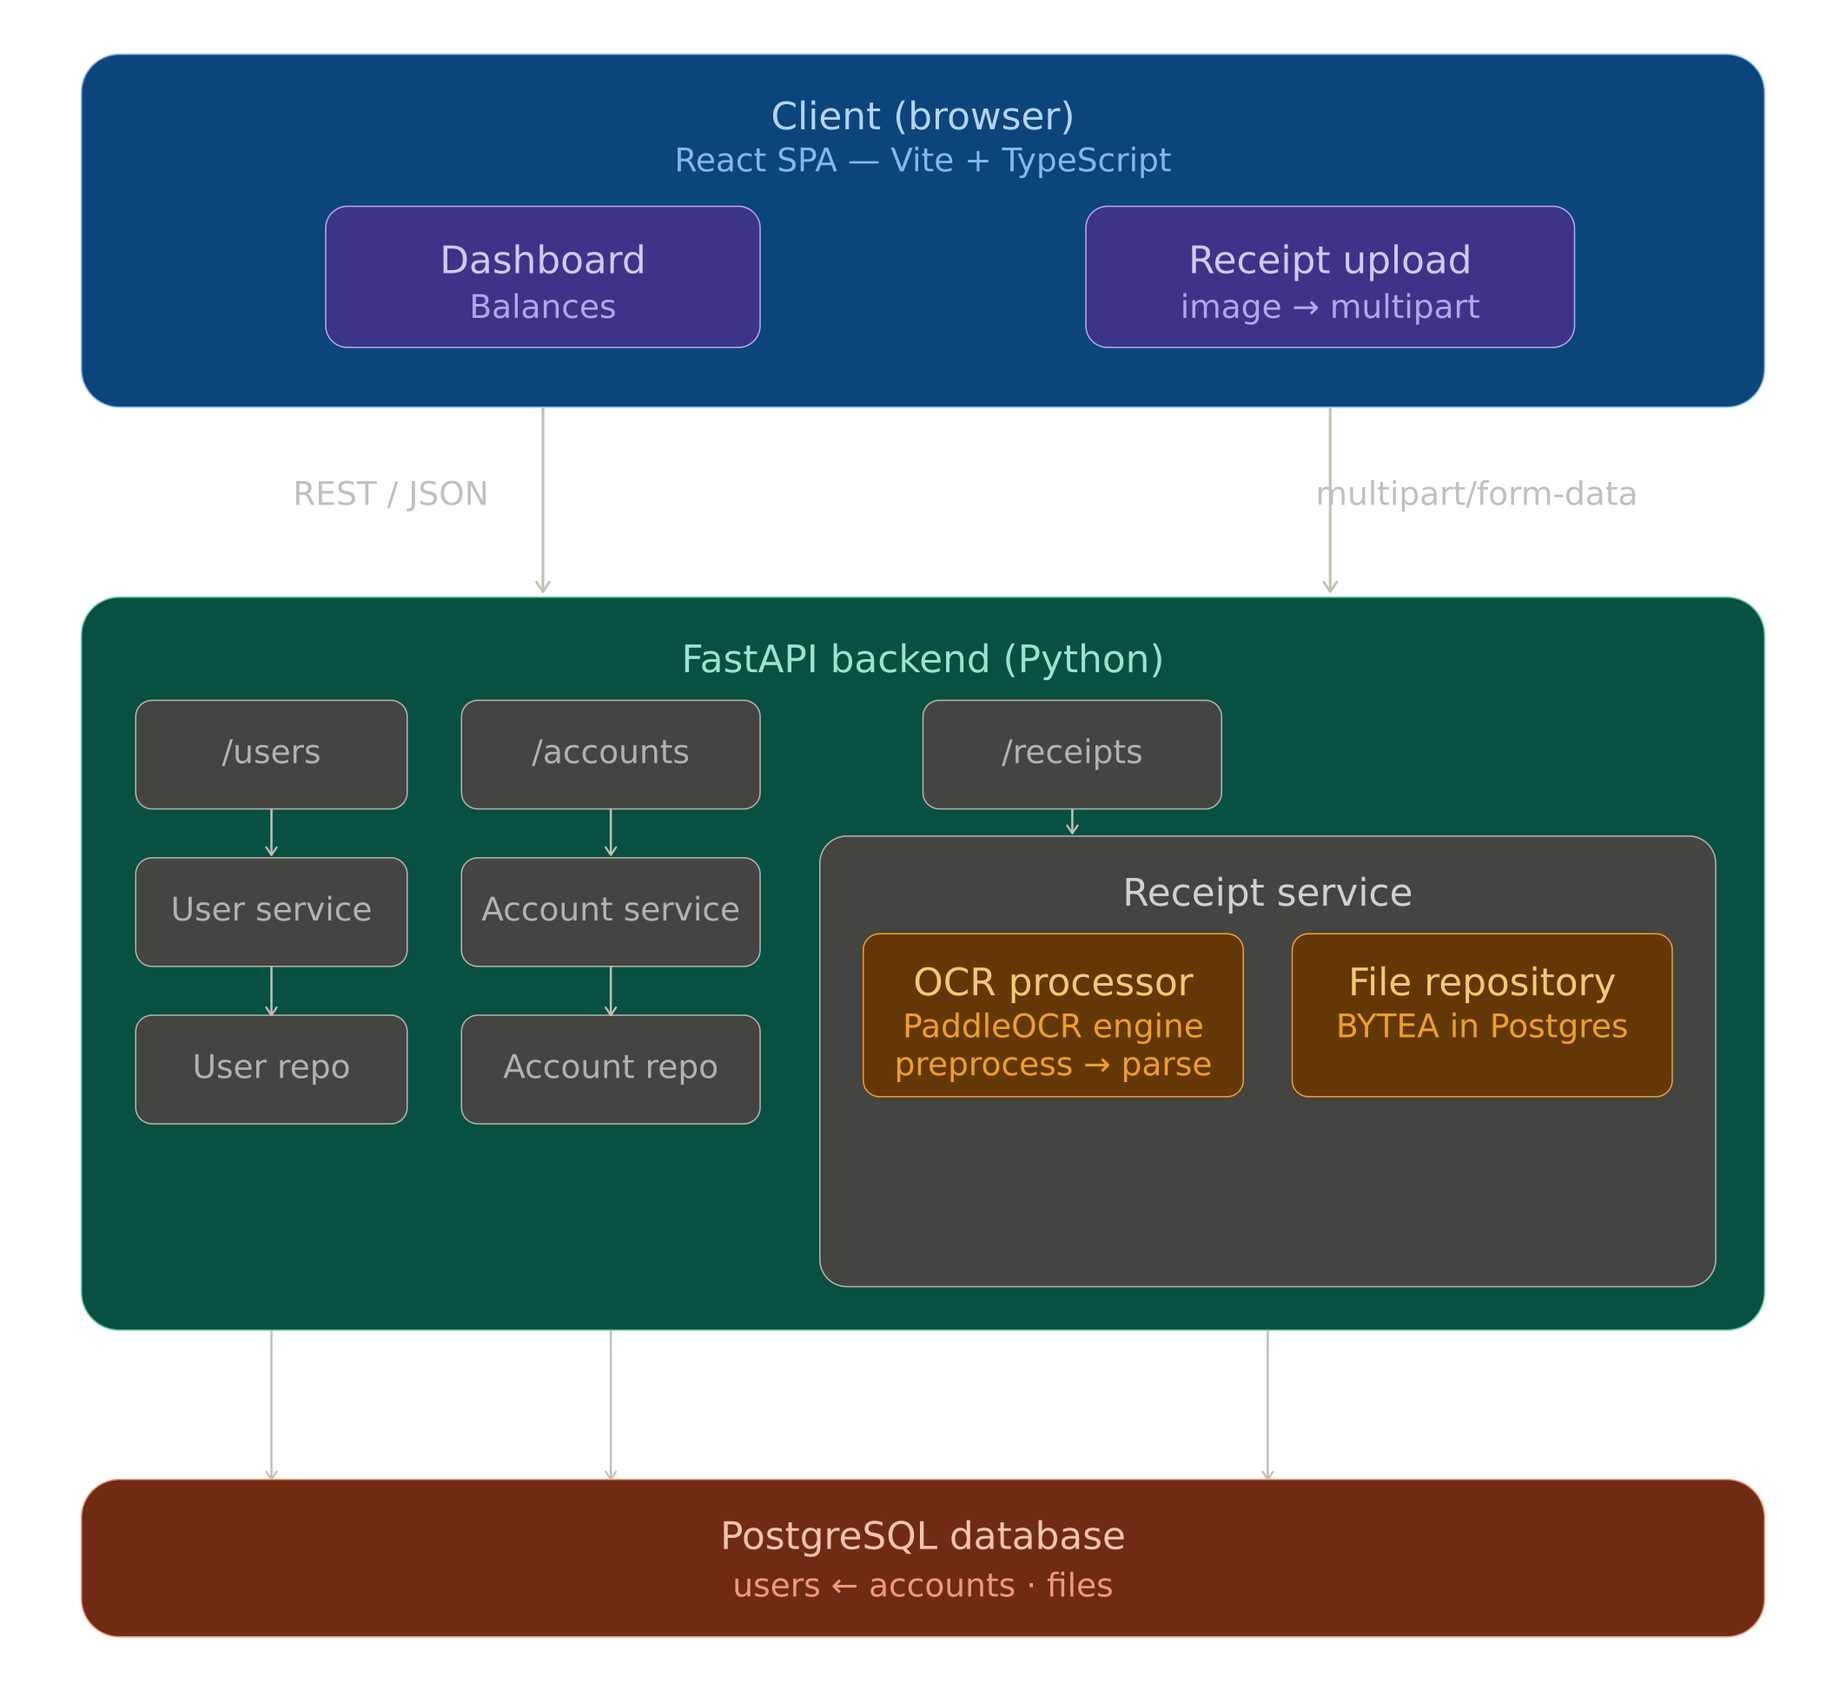
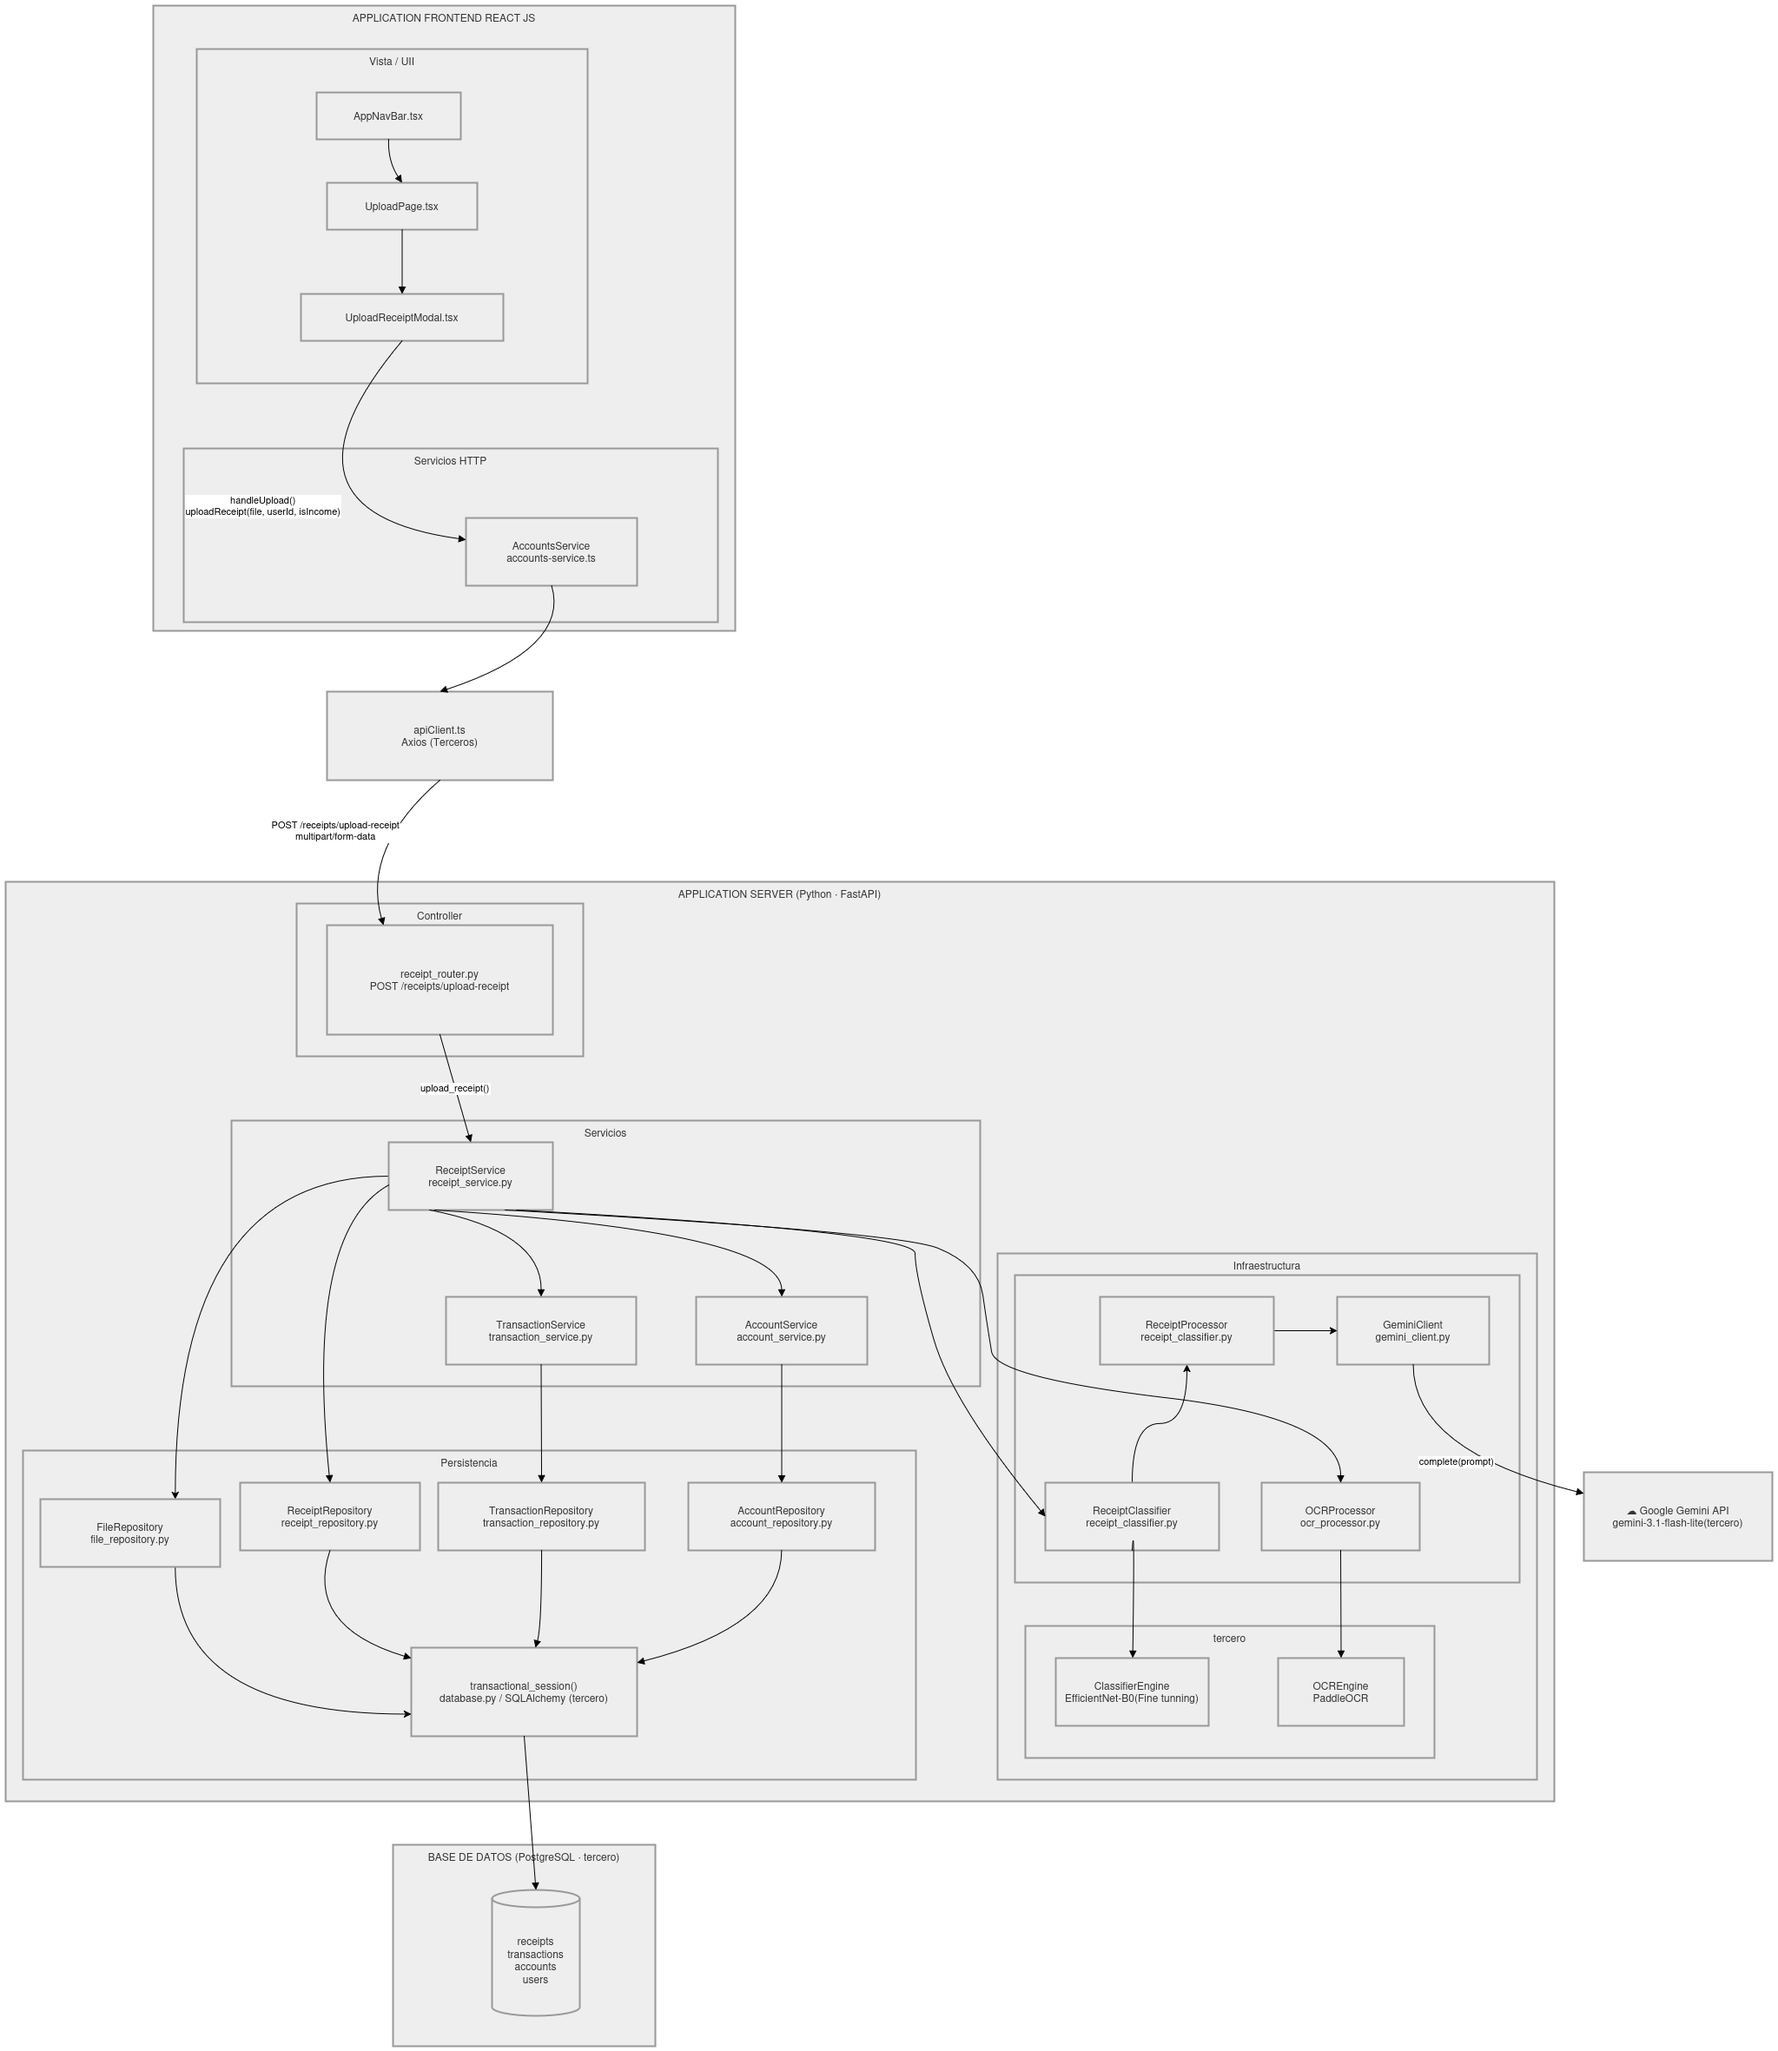
doc: no se pusheo.

diff --git a/README.md b/README.md
@@ -5,7 +5,7 @@
 </p>
 
 **Introduction**  
-TecaTrack is an application designed for managing receipts and financial transactions using OCR (Optical Character Recognition) technology. Currently in a Proof of Concept (PoC) phase focusing on processing receipts from Brunbank, its main objective is to extract structured information from receipt images and automatically map it to user accounts.
+TecaTrack is an application for managing receipts and financial transactions using OCR (Optical Character Recognition) technology. It automatically classifies receipt images by bank, extracts structured data using bank-specific processors or an LLM-based fallback, and maps the results to user accounts. It also supports manual transaction entry and recurring income scheduling.
 
 ---
 
@@ -21,32 +21,22 @@ This repository is the documentation hub for the TecaTrack ecosystem. Source cod
 
 ## Features
 
-- **Receipt Upload**: Upload images of receipts easily.
-- **OCR Processing**: Automatic extraction of key data from receipt images.
-- **Receipt Mapping**: Automatic association of extracted data and updating of funds.
-- **Balance Dashboard**: Visualization of total and individual account balances.
+- **Receipt Upload**: Upload images of receipts and automatically extract structured data via OCR.
+- **Multi-bank OCR**: Bank-specific processors for Brubank and Lemon, with an LLM-based (Gemini) fallback for other institutions.
+- **Receipt Mapping**: Extracted data is associated with the user's accounts and balances are updated accordingly.
+- **Balance Dashboard**: Visualization of total and per-account balances.
+- **Transaction Management**: View recent transactions, filter by date range, and edit existing records.
+- **Manual Transaction Entry**: Log income, expenses, or transfers without uploading a receipt.
+- **Recurring Income**: Schedule periodic income entries that are registered automatically by a background worker.
+- **Account Management**: Create and switch between multiple bank accounts.
 
 ---
 
 ## Premises and Requirements
 
-- **No Authentication**: The PoC uses manual user entry. The active user is determined by an environment variable in the frontend.
-- **OCR Scope**: Designed exclusively for Brunbank receipts.
+- **No Authentication** (Temporarily implemented): The active user is determined by an environment variable in the frontend. A dev-only endpoint allows switching between users during testing.
 - **User Identity**: Users must have a valid Argentine CUIL number.
-
----
-
-## Architecture
-
-The system follows a client-server architecture:
-
-- **Frontend**: Single Page Application (SPA) developed with React and Vite.
-- **Backend**: REST API developed in Python using FastAPI.
-- **Database**: PostgreSQL for relational data persistence.
-
-### Architecture Diagram
-
-![Architecture Diagram](./assets/app_architecture_diagram.png)
+- **Environment Variables**: `GEMINI_API_KEY` is required in the backend for LLM-based receipt extraction (Default processor).
 
 ---
 
@@ -56,9 +46,12 @@ The system follows a client-server architecture:
 | -------------- | ----------------------- | ----------------------------------------------------------------- |
 | Frontend       | React, Vite, TypeScript | Dynamic interface development and strict typing                   |
 | Frontend UI    | Ant Design (AntD)       | Rapid styling and component creation                              |
+| Frontend       | React Router DOM        | Client-side routing across app pages                              |
 | Backend        | Python, FastAPI         | Robust business logic and rapid API creation                      |
 | Database       | PostgreSQL, Alembic     | Relational data persistence and secure migrations                 |
 | Infrastructure | PaddleOCR               | Optical Character Recognition (OCR) to extract data from receipts |
+| Infrastructure | CNN classifier          | Identifies the originating bank from a receipt image              |
+| Infrastructure | Google Gemini (LLM)     | LLM-based receipt data extraction as a fallback processor         |
 
 ---
 
@@ -69,8 +62,9 @@ The system follows a client-server architecture:
 - **User**: Identified by CUIL. Can own multiple accounts and receipts.
 - **Account**: Bank account linked to a user. Stores bank name, balance, and CBU. Tracks transactions.
 - **File**: Binary representation of the uploaded receipt image (`BYTEA` in PostgreSQL).
-- **Receipt**: Processed receipt linking user and file. Tracks OCR status and stored extracted data.
+- **Receipt**: Processed receipt linking user and file. Tracks OCR status, stores extracted OCR text, and carries an `is_income` flag indicating the direction of the operation.
 - **Transaction**: Monetary movement linking sender, receiver, source/destination accounts, and the receipt.
+- **RecurringIncome**: Scheduled income entry that triggers automatic transaction registration on a defined period.
 
 ## Database schema
 
@@ -78,23 +72,96 @@ The system follows a client-server architecture:
 
 ---
 
-## Main System Workflow
+## Upload Receipt Workflow
 
-1. The frontend uses the email configured in its `.env` to query the user.
-2. User uploads an image of a Brunbank receipt.
-3. System persists the image and processes it via the OCR service.
-4. OCR extracts data, maps it to a "Receipt", and updates account balances.
-5. User views updated balances on the dashboard.
+1. The frontend uses the email configured in its `.env` to identify the active user.
+2. User uploads a receipt image.
+3. The CNN classifier identifies the originating bank.
+4. The matching bank-specific OCR processor (Brubank, Lemon, or the LLM-based Default) extracts structured data.
+5. The system persists the receipt and updates the affected account balances.
+
+### Architecture Diagram
+
+![Architecture Diagram](./assets/app_architecture_diagram.png)
+
+### Responsabilities:
+
+- AppNavBar.tsx
+  Top-level navigation component that renders the tab bar and routes the user between the main pages of the application (Dashboard, Upload, User).
+
+- UploadPage.tsx
+  Page component that hosts the upload section. Renders the tab layout for receipt upload and recurring income, and conditionally mounts UploadReceiptModal when the user triggers the upload
+  action.
+
+- UploadReceiptModal.tsx
+  Modal component that owns the receipt upload interaction. Holds local state for the selected file and the isIncome flag, calls AccountsService.uploadReceipt() on confirmation, and reports
+  success or error back to the user.
+
+- AccountsService (accounts-service.ts)
+  HTTP service layer for all account-related operations. Builds the multipart/form-data payload and delegates the actual HTTP call to apiClient. Also handles account creation and balance.
+
+- apiClient.ts (Axios — third-party)
+  Centralized Axios instance that is the single HTTP exit point of the frontend. Configured with the base URL and a response interceptor that maps backend error codes to typed ApiError objects with i18n translation.
+
+- receipt_router.py — POST /receipts/upload-receipt
+  FastAPI router that receives the incoming HTTP request with the file, user_id, and is_income flag. Resolves service dependencies via injection and delegates the entire use case to ReceiptService.
+
+- ReceiptService (receipt_service.py)
+  Central orchestrator of the upload use case. Calls each infrastructure component in sequence — image conversion, bank classification, OCR extraction — then coordinates receipt persistence and delegates transaction creation and balance updates to the domain services. Guarantees that File and Receipt are persisted even if extraction fails.
+
+- TransactionService (transaction_service.py)
+  Handles the business logic for creating a transaction record and applying the resulting balance delta to the source and destination accounts. Delegates persistence to TransactionRepository.
+
+- AccountService (account_service.py)
+  Resolves and validates the accounts involved in a transaction by matching the user's CUIL with the CBU and bank name extracted from the receipt. Provides concurrency-safe balance update operations.
+
+- ReceiptProcessor (receipt_classifier.py)
+  Selects and executes the appropriate bank-specific parsing strategy after the classifier determines the bank. Applies the processor's rules to the raw OCR output and returns a structured OCRResponse.
+
+- GeminiClient (gemini_client.py)
+  Implementation of the LLMClient interface that sends a prompt to the Google Gemini API. Used exclusively by the Default processor as a fallback when no bank-specific processor matches the classified receipt.
+
+- ReceiptClassifier (receipt_classifier.py)
+  Preprocesses the raw image bytes and passes them to ClassifierEngine to obtain a bank prediction. Returns the corresponding ReceiptProcessor instance to use for structured data extraction.
+
+- OCRProcessor (ocr_processor.py)
+  Drives the raw text extraction using OCREngine and forwards the result to the active ReceiptProcessor for structured parsing. Returns both the structured fields and the raw OCR text for storage.
+
+- ClassifierEngine — EfficientNet-B0 fine-tuned (third-party)
+  Thread-safe lazy singleton that loads and caches the fine-tuned EfficientNet-B0 model in memory. Exposes get() returning the model and class map, ensuring the model is initialized only once across all requests.
+
+- OCREngine — PaddleOCR (third-party)
+  Thread-safe lazy singleton wrapping PaddleOCR, configured with Spanish language and text-orientation detection. Runs inference in a thread pool via asyncio.to_thread to avoid blocking the async event loop.
+
+- FileRepository (file_repository.py)
+  Accesses the files table and persists the raw BYTEA image data. Decoupled from receipt processing so the binary artifact is stored regardless of whether OCR succeeds.
+
+- ReceiptRepository (receipt_repository.py)
+  Accesses the receipts table. Persists the receipt record with its OCR status, raw extracted text, and is_income flag. Provides update() to reflect the final processing state after extraction completes.
+
+- TransactionRepository (transaction_repository.py)
+  Accesses the transactions table. Persists new transaction records and supports updates to existing ones, keeping monetary movements linked to the accounts and receipts they reference.
+
+- AccountRepository (account_repository.py)
+  Accesses the accounts table. Supports account creation, retrieval by CBU, and balance updates used by AccountService during transaction processing.
+
+- transactional_session() / database.py (SQLAlchemy — third-party)
+  Async context manager over SQLAlchemy's async_sessionmaker. Wraps all repository operations in a single database transaction with automatic commit on success and rollback on failure. It is the sole point of contact with PostgreSQL.
+
+- Google Gemini API — gemini-3.1-flash-lite (third-party)
+  External LLM service invoked by GeminiClient to extract structured fields from receipts that do not match a known bank processor. Receives a text prompt with the raw OCR output and returns a structured JSON response.
+
+- PostgreSQL — receipts, transactions, accounts, users (third-party)
+  Relational database that persists all application state. Accessed exclusively through transactional_session() to ensure ACID guarantees across all write operations.
 
 ---
-
 ## Important Technical Decisions
 
 **Layered Architecture (Backend)**
 Structured using `routers`, `services`, `repositories`, `schemas`, and `models` to maintain separation of concerns and allow atomic development.
 
 **Image Persistence (Backend)**
-Persisted using `BYTEA` in PostgreSQL following the KISS principle for the current PoC scope, with potential to migrate to blob storage later.
+Persisted using `BYTEA` in PostgreSQL following the KISS principle, with potential to migrate to dedicated blob storage later.
 
 **OCR Engine Optimization**
 PaddleOCR engine is initialized as a singleton at startup to prevent cold-start delays. Receipt processing runs in an async thread pool (`asyncio.to_thread`) to avoid blocking the API event loop.
@@ -102,13 +169,20 @@ PaddleOCR engine is initialized as a singleton at startup to prevent cold-start 
 **Account Matching**
 Accounts are reliably matched by combining the user's CUIL with the CBU and bank name extracted from the receipt.
 
+**CNN-based Bank Classifier**
+A convolutional neural network classifies the receipt image to determine the originating bank before OCR processing, enabling routing to the correct processor without manual input.
+
+**Bank-specific Processor Architecture with LLM Fallback**
+Each supported bank (Brubank, Lemon) has a dedicated OCR processor with tuned configuration. Unrecognized banks fall through to a Default processor that uses Google Gemini to extract receipt data via an LLM prompt.
+
 ---
 
 ## Considerations for Future Development
 
-- Implementation of a real authentication and authorization flow.
-- Support for receipts from other financial institutions.
+- Implementation of a real authentication and authorization flow (OAuth with Google).
+- Support for receipts from additional financial institutions beyond Brubank and Lemon.
 - Voice transaction input for logging transactions without receipts.
-- Expense Reservations: setting money aside for upcoming expenses.
+- Expense Reservations: setting money aside for upcoming expenses with future-spend visibility.
 - Migration to dedicated blob storage (e.g., S3) for files.
-- Full persistence logic for `Receipt` and `Transaction` records beyond balance updates.
+- Timezone-aware date handling in the backend.
+- Viewing and editing recurring income entries.

diff --git a/CHANGELOG.md b/CHANGELOG.md
@@ -6,6 +6,15 @@ This project follows **Semantic Versioning (SemVer)**.
 
 ---
 
+## [0.2.0] - 2026-05-16 - Sprint 1
+
+### Added
+
+- Iteration summary documented in `iterations/sprint1.md` and `iterations/poc.md`.
+- Diagram architecture based on a specific user story.
+
+---
+
 ## [0.1.0] - 2026-04-24 - DEMO
 
 ### Added
